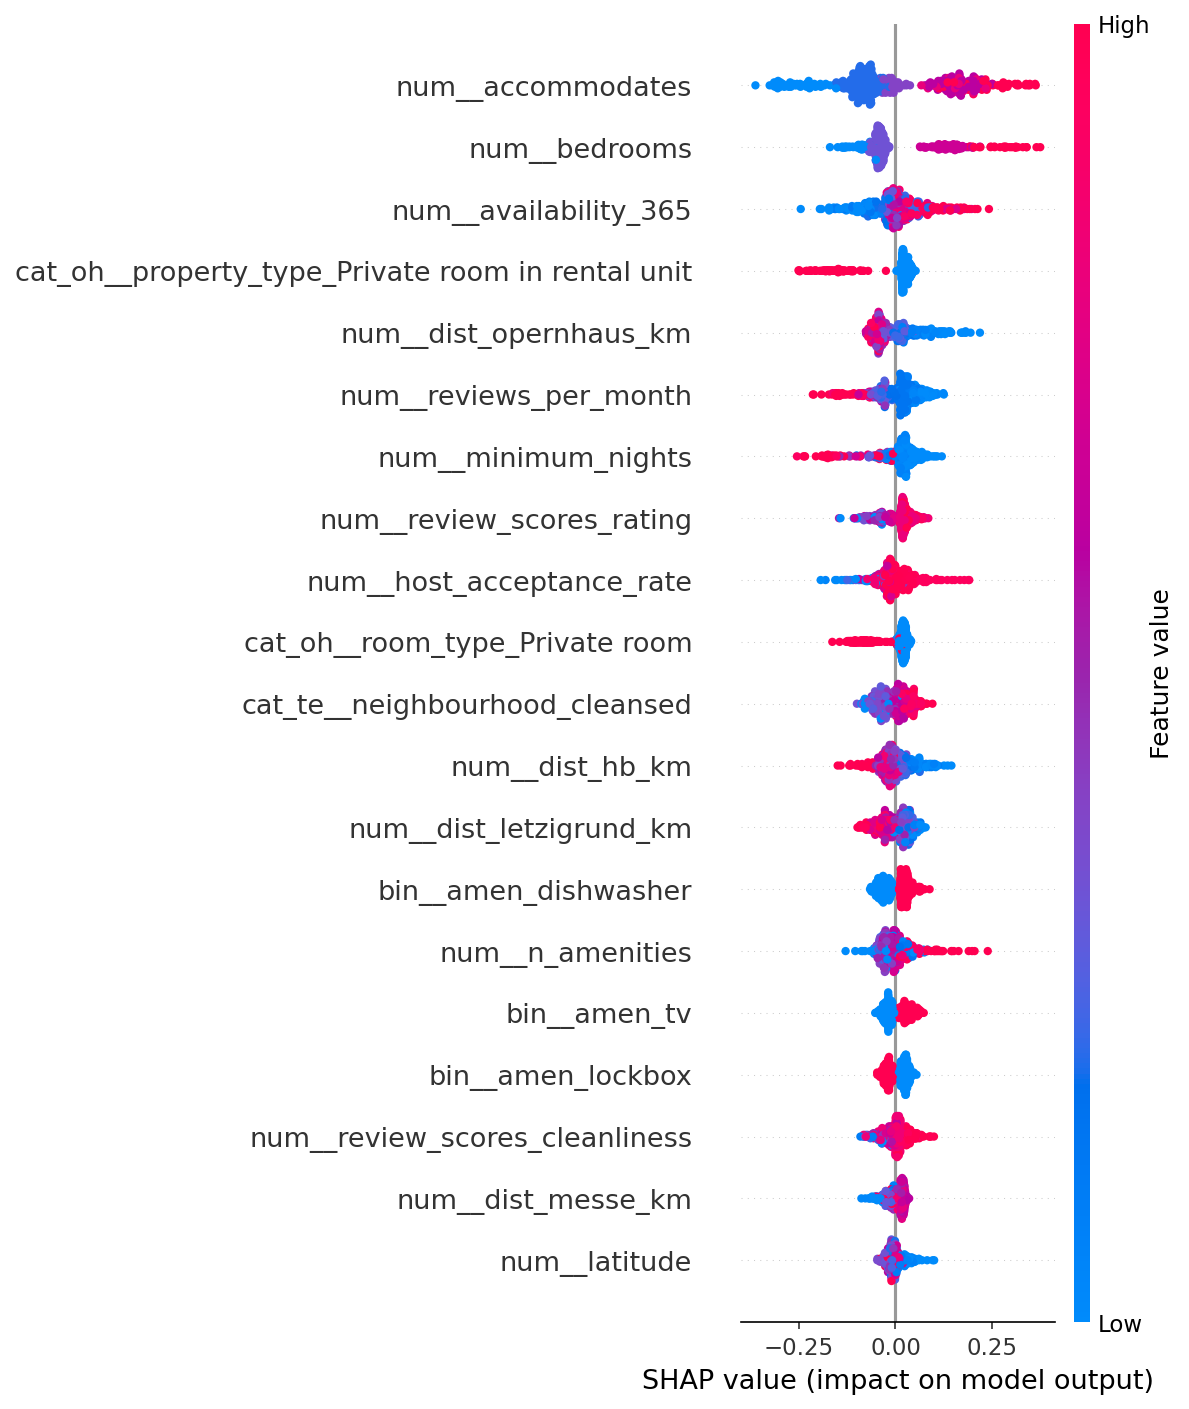
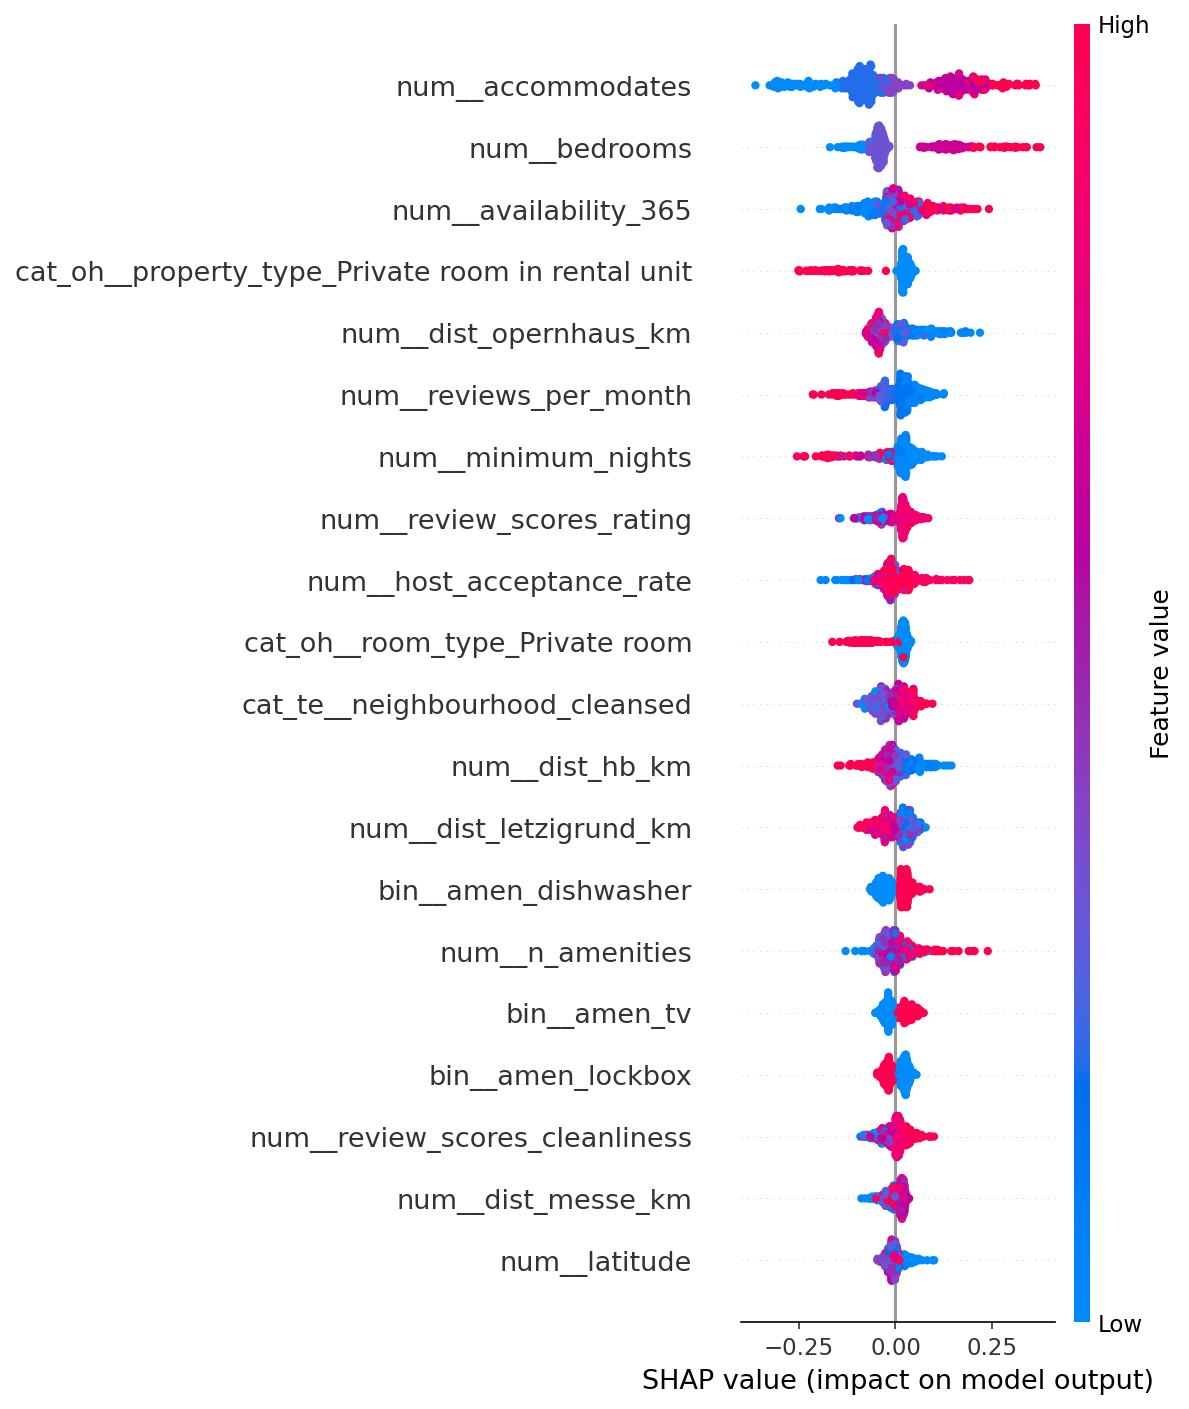
docs: stratified two-expert HGB lost cleanly; document and revert
Tried an outlier-stratified pipeline: HistGradientBoostingClassifier
splits listings at 250 CHF/night, two HGB regressors handle the
mainstream (<=250) and luxury (>250) buckets, predictions are routed
by the classifier. Implemented as a custom StratifiedPriceRegressor
wrapper sitting in the 'model' slot of the existing Pipeline.

Result: CV-R² 0.558 vs. single HGB 0.641 (-0.083). Two failure modes:
- Router classifier mis-routes a non-trivial fraction of listings;
  each routing error is expensive on MAE.
- The luxury bucket has only 299 training rows, below the regime
  where HGB outperforms simpler models.

Reverted the wrapper, the imports, and the candidate cell. The
single-HGB pipeline remains the winner (metrics unchanged: MAE 38.14,
RMSE 66.98, R² 0.530). Added the experiment to the README's
"Experiments that didn't pay off" section.

diff --git a/README.md b/README.md
@@ -111,8 +111,9 @@ For transparency, a few feature ideas we tried but reverted because they did not
 
 - **OSM transit stops + supermarkets in 500 m radius.** `dist_nearest_transit_km` and `n_supermarkets_500m` fetched from OpenStreetMap via the Overpass API. Zurich's transit network is so dense that almost every listing sits within ~150 m of a stop (median 112 m, max 711 m), so the distance has no discriminative power. Supermarket density correlated with `dist_hb_km` (city centre), so the model already had that signal. Both features landed at SHAP rank #26 / #30 and CV-R² dropped slightly (0.635 → 0.626).
 - **Distance to Zürichsee shore + Limmat river.** Same OSM source. These features *do* carry signal (SHAP rank #12 / #13), but SHAP simply redistributed importance from the existing `dist_opernhaus_km` and `dist_hb_km` features — held-out R² changed by −0.008 (within noise). Lake/river proximity is already implicitly captured by the central-Zurich venue distances.
+- **Outlier-stratified HGB (two-expert / mixture-of-experts).** Built a custom `StratifiedPriceRegressor` that trains a `HistGradientBoostingClassifier` to split listings at 250 CHF/night (~15% luxury bucket), then routes each prediction to one of two HGB regressors trained on its bucket. The stratified pipeline lost by a wide margin: CV-R² **0.558** vs. the single-HGB baseline's **0.641** (−0.083). Two reasons: the router classifier mis-routes ~10% of listings (each error costs a lot in MAE), and the luxury bucket's 299 training rows is below the sample-size regime where HGB outperforms simpler models. The single HGB sees the full distribution and learns the price-by-feature relationship without any routing risk.
 
-Conclusion: when several distance features overlap geographically, adding more of them does not stack; the model just spreads the same signal across more columns. External data only helps when it captures something genuinely orthogonal to what is already in the feature set.
+Conclusion: when several distance features overlap geographically, adding more of them does not stack; the model just spreads the same signal across more columns. External data only helps when it captures something genuinely orthogonal to what is already in the feature set. Stratification only helps when the buckets follow genuinely different price-driver patterns *and* there's enough data in the minority bucket — neither held for this dataset.
 
 ## Output
 - Trained model:  models/rent_pipeline.pkl